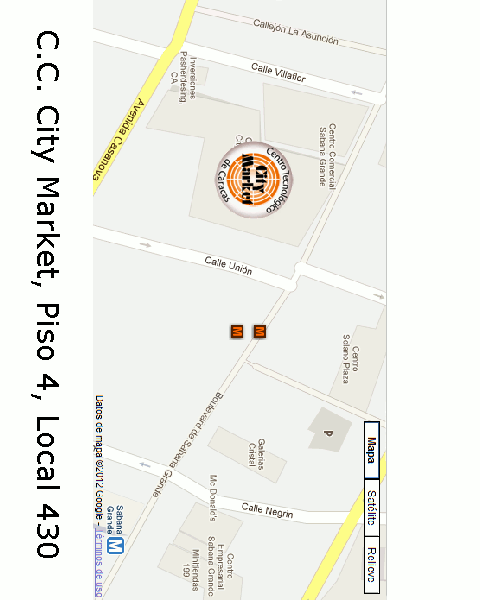
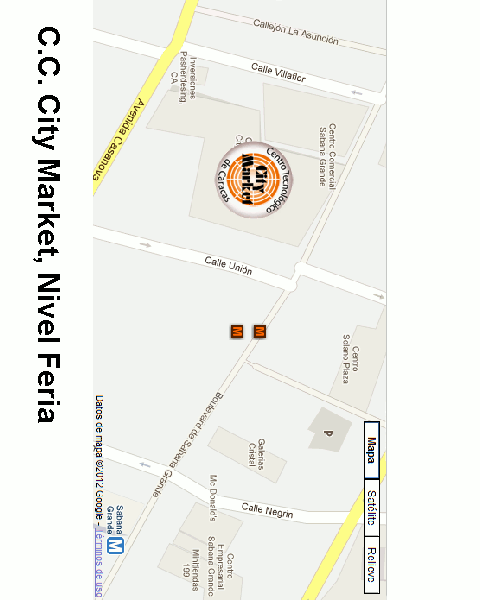
Platanomanía v2

Changed region(s): [[0.0625, 0.03, 0.125, 0.93]]

diff --git a/index.html b/index.html
@@ -38,12 +38,12 @@
                     <a href="#mapa">
                         <div>
                           <img alt="Platanomania" class="icon" src="images/mapa.png" width="33%" /><br/>
-                          <span class="nosTag" style="color: black;">City Market,<br/>Nivel Plaza<br/>Local 142<span>
+                          <span class="nosTag" style="color: black;">City Market,<br/>Nivel Feria<span>
                         </div>
                     </a>
                 </div>
 		<div class="ui-block-c center">
-                    <a href="http://www.bluproducts.com.ve">
+                    <a href="http://www.platanomania.com">
                         <div>
                           <img  alt="Platanomania" class="icon" src="images/web.png" width="33%" />
                         </div>
@@ -51,7 +51,7 @@
                     </a>
                 </div>
                 <div class="ui-block-c center" id="franquiAct">
-                    <a href="mailto:becelectronic@gmail.com">
+                    <a href="mailto:platanomania@gmail.com">
                         <div>
                           <img alt="Platanomania" class="icon" src="images/correo.png" width="33%" />
                         </div>
@@ -62,26 +62,26 @@
 
             <fieldset class="ui-grid-b icon-set">
                 <div class="ui-block-a center">
-                    <a href="tel:02127621552">
+                    <a href="tel:04242157648">
                         <div>
                           <img alt="Domicilios" class="icon" src="images/telefono.png" width="80" height="80" /><br/>
-                          <span class="callTag" style="color: black;">(0212) 762.15.52<span>
+                          <span class="callTag" style="color: black;">(0424) 215.76.48<span>
                         </div>
                     </a>
                 </div>
 		<div class="ui-block-c center">
-                    <a href="https://www.facebook.com/BLU.Products">
+                    <a href="http://www.facebook.com/PlatanoMania">
                         <div>
                           <img alt="Domicilios" class="icon" src="images/facebook.png" width="80" height="80" /><br/>
-                          <span class="callTag" style="color: black;">BLU Products<span>
+                          <span class="callTag" style="color: black;">Platanomania<span>
                         </div>
                     </a>
                 </div>
                 <div class="ui-block-c center" id="franquiAct">
-                    <a href="http://twitter.com/blu_products">
+                    <a href="http://twitter.com/platanomania">
                         <div>
                           <img alt="Domicilios" class="icon" src="images/twitter.png" width="80" height="80" /><br/>
-                          <span class="callTag" style="color: black;">@blu_products<span>
+                          <span class="callTag" style="color: black;">@platanomania<span>
                         </div>
                     </a>
                 </div>
@@ -89,23 +89,28 @@
 
             <fieldset class="ui-grid-b icon-set">
                 <div class="ui-block-a center">
-                    <a href="http://www.youtube.com/BLUProductsGlobal">
+                    <a href="http://j.mp/plnmgal">
                         <div>
-                          <img alt="Domicilios" class="icon" src="images/youtube.png" width="80" height="80" /><br/>
-                          <span class="callTag" style="color: black;">BLUProductsGlobal<span>
+                          <img  alt="Platanomania" class="icon" src="images/galeria_fotos.png" width="33%" />
                         </div>
+                        <div class="srvTag" style="color: black;">Galer&iacute;a de Fotos</div>
                     </a>
                 </div>
 		<div class="ui-block-c center">
+                    <a href="http://www.mis-recetas.org/recetas/search?text=platano">
+                        <div>
+                          <img  alt="Platanomania" class="icon" src="images/recetas.png" width="33%" />
+                        </div>
+                        <div class="srvTag" style="color: black;">Recetas</div>
+                    </a>
+                </div>
+                <div class="ui-block-c center" id="franquiAct">
                     <a href="#qr_code">
                         <div>
                           <img alt="Compartir" class="icon" src="images/compartir.png" width="80" height="80" /><br/>
                           <span class="callTag" style="color: black;">Compartir<span>
                         </div>
                     </a>
-                </div>
-                <div class="ui-block-c center" id="franquiAct">
-                  <br/>
                 </div>
             </fieldset>
 
@@ -119,7 +124,8 @@
     <div data-role="page" data-title="Platanomania" id="mapa">
         <div data-role="content"  data-theme="a">
             <!-- div class="logoP"><img alt="Platanomania" src="images/logo.png"/></div -->
-            <center><a href="#home"><img alt="Platanomania" src="images/logo.png"/></a></center><br/>
+            <!-- center><a href="#home"><img alt="Platanomania" src="images/logo.png"/></a></center><br/ -->
+            <a href="#home"><img alt="Platanomania" src="images/logo.png" width="100%" /></a><br/><br/>
 
             <fieldset class="ui-grid-b icon-set">
                 <div class="ui-block-a center">
